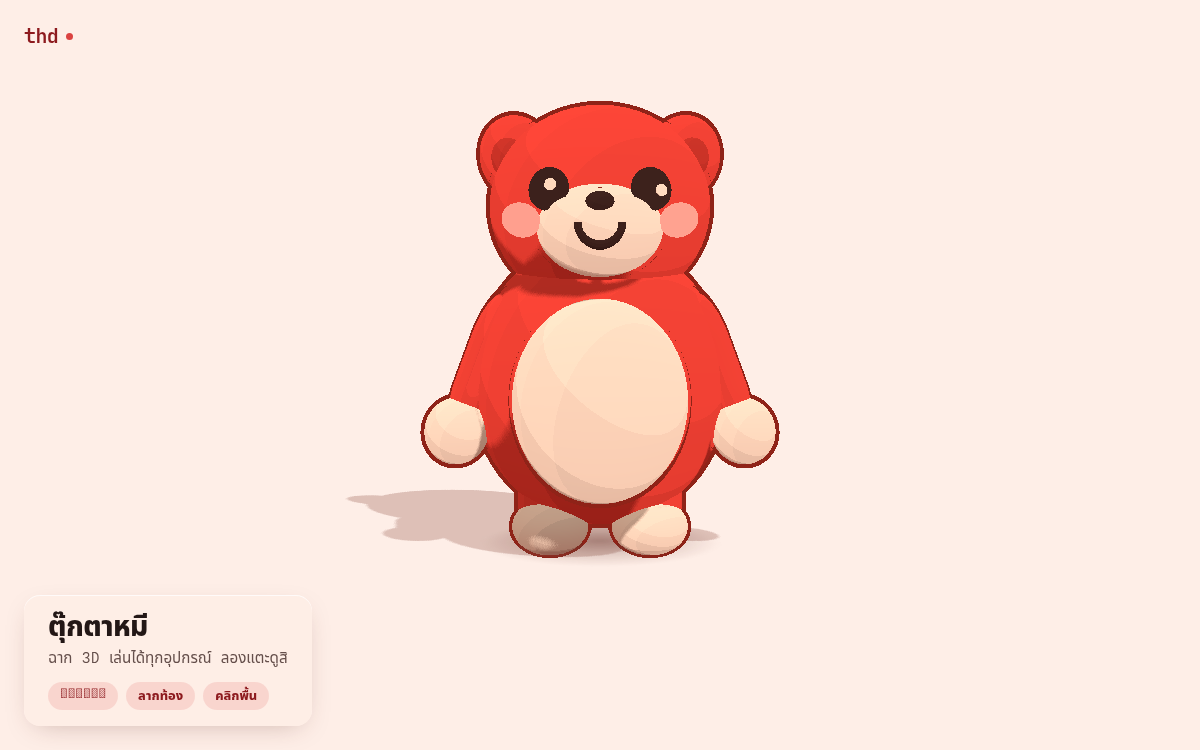
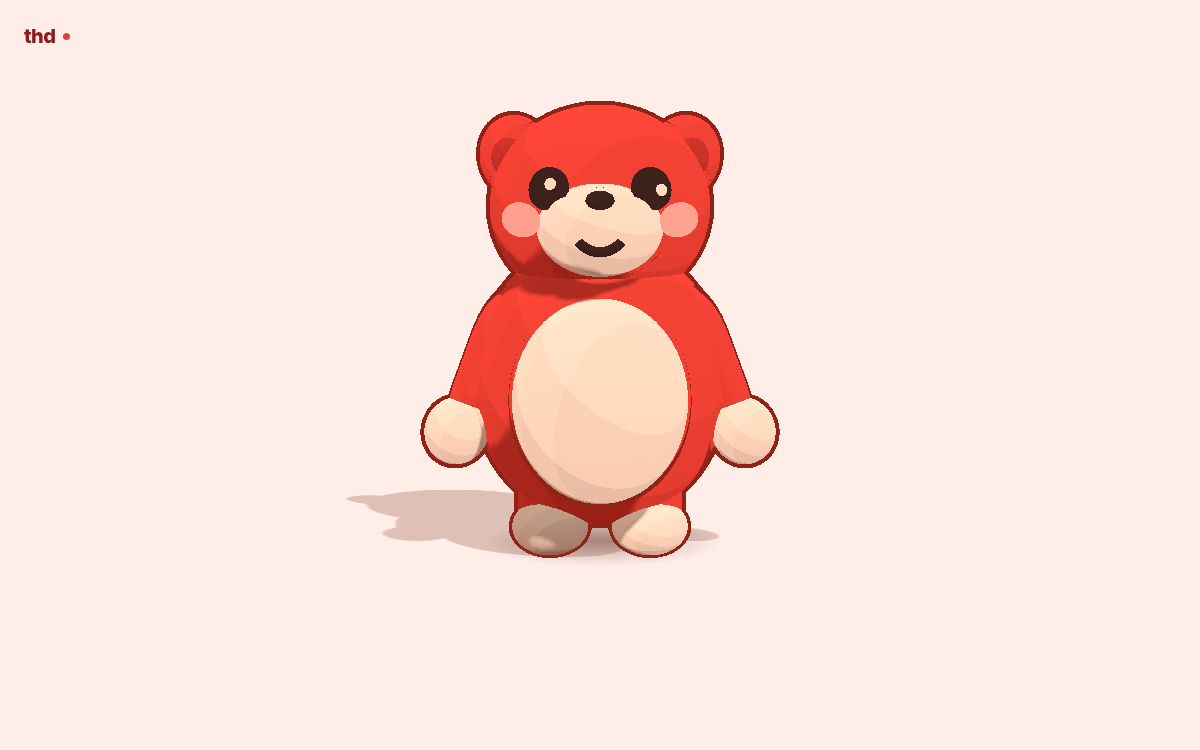
Update the README to match what the project actually does
The readme had drifted behind the code in ways that were not obvious from
reading it. It still advertised "the head follows your cursor" as the
first interaction — the one thing that was deliberately removed, because a
head that moves whether or not anyone touches it makes every real gesture
compete with idle motion. It had no mention of petting at all, described
the belly press as a squash, and pointed at file paths that no longer
exist after the bear was split into src/bear/.

It also cited 137 KB of JavaScript, which is not the bundle's size. It is
134 KB — 8 KB of scene code and 126 KB of three.js.

The sections added are the ones that would cost a reader the most to
rediscover: why the head has two gestures and why they are split on
distance rather than speed, the closed-form for placing a flat mark on the
curved skull and why each side has to be computed from its own x, the
mouth's dip/width ratio and the fact that a torus arc starts at angle 0
rather than being centred on the y axis, and why the head runs on an
explicit spring integrated in substeps while everything else uses an
exponential damp.

The cover image is regenerated from the live site. The old one predated
the mouth fix and showed a visibly crooked smile, and it carried the
content card, whose Thai hint text rendered as empty boxes because the
capture machine has no Thai font installed.

A deploying section notes the two things that actually went wrong here:
[…]

Changed region(s): [[0.0308, 0.7973, 0.2467, 0.9507], [0.4625, 0.3067, 0.5242, 0.3987], [0.0, 0.0307, 0.0617, 0.0613]]

diff --git a/README.md b/README.md
@@ -24,8 +24,8 @@
 **[thd.themostpoordev.top](https://thd.themostpoordev.top)**
 
 Served as a static bundle from nginx with a Let's Encrypt certificate. It
-loads in about 130 KB of JavaScript and runs at the display's native pixel
-ratio on every device.
+loads in about 134 KB of JavaScript — 8 KB of scene code and 126 KB of
+three.js — and runs at the display's native pixel ratio on every device.
 
 <a id="interactions"></a>
 ## Interactions
@@ -35,14 +35,34 @@ so the whole thing works identically on a phone, a tablet and a desktop.
 
 | Gesture | What happens |
 |---|---|
-| Move the pointer | The head follows your cursor |
-| Tap the head | Hearts float up, the bear leans back and raises its arms |
-| Squeeze the belly | The belly squashes and springs back |
+| Tap the head | Hearts float up, the bear recoils and raises its arms |
+| Stroke across the head | The head turns into your hand and drops, the ears go soft, the eyes half-close and the whole body relaxes |
+| Squeeze the belly | The belly squashes and the arms fold in until the paws rest on it |
 | Tap the floor | The bear hops over to that spot |
 | Drag the bear | Pick it up and move it around |
 
-Left alone, the bear breathes, blinks on a randomised schedule, swivels its
-ears out of phase with its breathing, and settles back to centre.
+Left alone, the bear breathes, blinks on a randomised schedule, and swivels
+its ears out of phase with its breathing. It does not follow the pointer —
+nothing moves it but a touch, which is what lets each gesture above read.
+
+### Telling a tap from a stroke
+
+The head has two gestures, and telling them apart is the whole difficulty of
+the feature. A pet is not a repeated pat: someone stroking a bear moves
+slowly and continuously, while tapping means picking it out of the air.
+
+The split is on **distance travelled**, not speed. At 60 fps one frame is
+16.7 ms, and a real stroke across a head this size moves only a few pixels
+per frame — too little for a per-frame speed test to catch. A slow,
+deliberate stroke is exactly the case such a test would miss, and it is the
+case that most needs to work.
+
+The threshold is 22% of the head's own width, measured by projecting the
+head's bounding box through the live camera. A fraction of the *canvas*
+was the obvious choice and it is wrong: the aspect ratio changes with the
+viewport, so one fraction meant 35% of the head on a wide desktop and 10%
+of it on a tall phone. Every tap became a pet on one and no stroke was ever
+recognised on the other.
 
 <a id="how-it-works"></a>
 ## How it works
@@ -55,25 +75,72 @@ readable. Every animatable part is held in an explicit `rig` object, so
 reactions address parts by name in constant time rather than walking the
 scene graph.
 
+### One file for every dimension
+
+All of the numbers that define the character's shape live in
+`src/bear/proportions.ts` and nowhere else. They are interdependent in ways
+that are invisible from any single use site — the arm's outward angle only
+makes sense against the torso's width, the eye's `x` against the skull's
+radius, the mouth's width against the muzzle — so collecting them is what
+makes them checkable.
+
+Several of them are solved rather than chosen, and the arithmetic is in the
+file. The belly press is the clearest case: a paw is 0.66 from the shoulder
+while the front of the belly is 0.87 away, so a head-on hug is geometrically
+impossible and the gesture has to land on the belly's *side*, where the
+surface curves back toward the arm. The angles in `ARM_PRESS` are the
+solution to that, found by scanning and then checked against the torso so
+the limb does not pass through the body on the way.
+
 ### Flat things have to follow the curve
 
-The single hardest problem in this project was placing the eyes and the blush.
-The head is an ellipsoid, so its surface curves away in every direction, and a
-flat disc placed at a fixed `z` with a guessed rotation ends up half-buried —
-its outer edge inside the fur while the middle floats clear.
+Placing the eyes and the blush was the hardest problem in this project, and
+it failed three times before it was solved. The head is an ellipsoid, so its
+surface curves away in every direction, and a flat disc placed at a fixed `z`
+with a guessed rotation ends up half-buried — its outer edge inside the fur
+while the middle floats clear.
 
 The fix is to stop guessing. For an ellipsoid with radii `r`, the surface
 height and the surface normal at a point are both closed-form:
 
 ```
-z = rz * sqrt(1 - (x/rx)² - (y/ry)²)
+z = rz · sqrt(1 - (x/rx)² - (y/ry)²)
 n = normalize(x/rx², y/ry², z/rz²)
 ```
 
 Every flat part on the face is positioned with those two values and laid along
 the resulting normal. That is the difference between a sticker floating in
-front of a head and a button sewn onto it. See `src/scene/eyes.ts` and the
-blush in `src/scene/bear.ts`.
+front of a head and a button sewn onto it. See `src/bear/ellipsoid.ts`.
+
+Each side is computed from **its own** `x`. The skull is symmetric in `x`, so
+the two eyes are mirror images in position and nearly mirror images in
+normal — and "nearly" is not "exactly". Reusing one side's values for the
+other is what made one eye sit flush on the cheek while the other hung off
+the side of the head.
+
+### The mouth is a solved curve, not a drawn one
+
+A teddy bear's mouth is a shallow smile, and a torus arc makes that a matter
+of arithmetic. For radius `R` swept over `arc` radians:
+
+```
+width = 2R · sin(arc/2)          dip = R · (1 - cos(arc/2))
+```
+
+The shape is fixed by `dip/width`, independent of `R`, and dividing the two
+gives `dip/width = tan(arc/4) / 2`. A half-torus — `arc = π` — is the most
+curved shape available for a given width, at exactly 0.5, and that is why a
+half-circle reads as a bucket. The mouth uses a ratio of 0.25 instead.
+
+Two things about the arc are easy to get wrong, and both were:
+
+- The sweep **starts at angle 0**, so its midpoint sits at `arc/2`, not on
+  the y axis. At `arc = π` that lands on 90° by luck, which is why the
+  original half-torus came out symmetric with no correction. Any other arc
+  does not, and the smile came out visibly crooked until the mouth was
+  rotated by `(π - arc)/2` to re-centre it.
+- The corner clearance is tight. The arc's ends have to stay below the
+  nose's lower edge, which is what fixes the node's height.
 
 ### Toon shading without post-processing
 
@@ -82,6 +149,12 @@ The flat cel-shaded look comes from `MeshToonMaterial` with a 4×1
 ramp into hard bands. The ink outline is an inverted hull — a second copy of
 each mesh with `BackSide`, scaled outward — so it costs one extra draw call per
 part and no full-screen pass, which is what lets it survive on a phone.
+
+The hull's width is absolute rather than proportional. A fixed multiplier
+(scale by 1.03 whatever the size) makes a big torso outline many times
+heavier on screen than a thin arm's, because the same multiplier on a
+smaller radius is proportionally less world space — which leaves the limbs
+with a barely-visible line and the body heavily outlined.
 
 ### Native resolution, no quality dial
 
@@ -96,17 +169,40 @@ and no post-processing, so a frame is a few dozen flat triangles.
 already supersampled relative to the output, which is strictly more samples per
 pixel than MSAA applied at 1×, and it costs nothing.
 
+### Springs have to be integrated, not eased
+
+Most of the character moves through `damp()`, an exponential approach, which
+is cheap and stable at any frame rate. The head during a stroke does not: it
+runs on an explicit spring, because weight comes from momentum and an
+exponential ease has none. The head carries past the hand and settles back,
+which is what a head with mass looks like.
+
+An explicit spring is only stable while `dt` stays small — at `k = 90` that
+is about 1/9 s, and the frame clock clamps to 1/20 s, which is already past
+it. Any backgrounded tab, slow frame or heavy moment on a phone exceeds that,
+and an unstable spring never recovers: the value grows, the correction grows
+with it, and the head shivers around its target forever. The spring is
+therefore integrated in fixed 1/120 s substeps, so every step is well inside
+the limit whatever the frame rate.
+
+Two other timing rules the reactions follow:
+
+- The pet's level is **re-asserted on every move**, not set once and decayed.
+  A stroke is sustained contact, not an impulse; the response should hold for
+  as long as the hand is there, and the decay exists to carry the release.
+- A release uses a **stiffer spring** than an arrival. The head should feel
+  heavy as it turns toward a hand and promptly let go when the hand leaves.
+
 ### Frame loop hygiene
 
 - Delta time is clamped to 1/20 s, so returning to a backgrounded tab resumes
   as if only one slow frame had passed — otherwise every spring in the scene
   integrates a multi-minute step and the bear teleports.
 - Rendering stops entirely while the tab is hidden.
-- Pointer velocity is sampled once per frame, not per event. Differentiating
-  raw `pointermove` events measures input rate, not visible speed.
 - Hearts come from a pre-allocated pool. Allocating geometry mid-interaction
   is exactly what causes the hitch you feel when poking a particle-heavy scene
   on a phone.
+- Nothing allocates in the render loop; scratch vectors are reused.
 
 ### Accessibility
 
@@ -147,6 +243,16 @@ src/
 ├── main.ts              entry point; WebGL support check and failure UI
 ├── app.ts               assembles the scene and owns the frame update
 ├── styles.css           design tokens, card, safe-area handling
+├── bear/                the character
+│   ├── index.ts         assembly and the rig the animation drives
+│   ├── proportions.ts   every number that defines the shape
+│   ├── style.ts         toon materials, palette, the ink outline
+│   ├── parts.ts         shared geometry and the part() factory
+│   ├── ellipsoid.ts     laying a flat mark on a curved surface
+│   ├── torso.ts         body and belly
+│   ├── head.ts          head group, muzzle, nose
+│   ├── face.ts          eyes, blush, mouth
+│   └── limbs.ts         arms, legs, ears
 ├── core/
 │   ├── ticker.ts        frame clock with a clamped delta
 │   ├── capability.ts    device probe
@@ -154,17 +260,27 @@ src/
 │   └── math.ts          damping and small helpers
 ├── scene/
 │   ├── stage.ts         renderer, camera, resize, frame loop
-│   ├── materials.ts     toon materials and the outline hull
 │   ├── lighting.ts      one shadow-casting key light plus fill
 │   ├── ground.ts        shadow plane and contact blob
-│   ├── bear.ts          the character and its rig
-│   ├── eyes.ts          button eyes placed on the surface normal
 │   ├── reactions.ts     every pose and transition
 │   ├── interactions.ts  pointer events to reactions
 │   └── hearts.ts        pooled heart particles
 └── ui/
     └── card.ts          wordmark, content card, interaction hints
 ```
+
+### Deploying
+
+`dist/` is served straight from nginx. Two things are worth knowing if you
+host it yourself:
+
+- **Clear the old `assets/` before copying.** Vite's filenames are content
+  hashed, so a new build does not remove the old ones and the directory
+  accumulates every build you have ever shipped.
+- **Do not leave a long-lived `thd` subdomain without a certificate.** HSTS
+  is remembered by the browser for the whole `max-age`; if a host is ever
+  switched on without one, browsers that saw the policy will refuse to fall
+  back to HTTP and the site is unreachable with a very hard fix.
 
 ---
 
